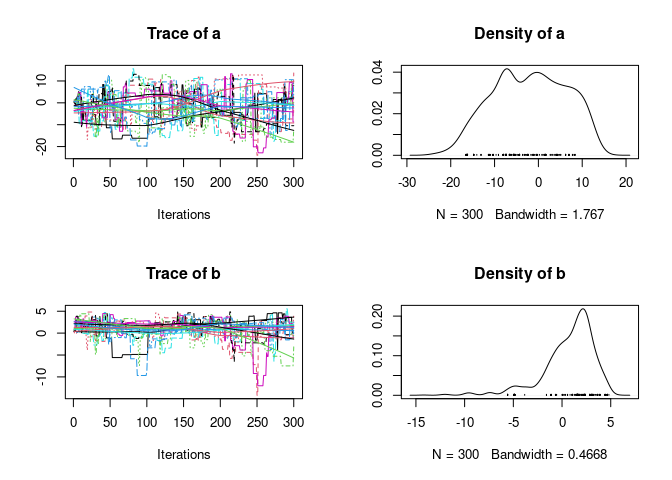
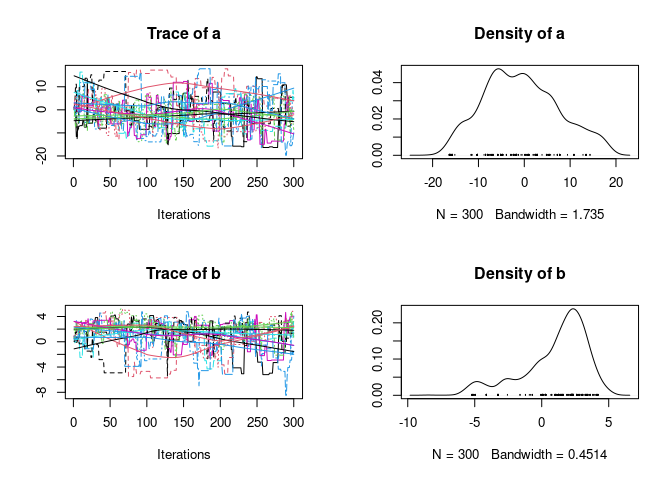
Set seed to avoid regenerating the figures each time

diff --git a/README.md b/README.md
@@ -41,12 +41,12 @@ res1 <- MCMCEnsemble(p.log, lower.inits=c(a=0, b=0), upper.inits=c(a=1, b=1),
 #> Using stretch move with 10 walkers.
 str(res1)
 #> List of 2
-#>  $ samples: num [1:10, 1:300, 1:2] 0.776 0.163 0.15 0.298 0.354 ...
+#>  $ samples: num [1:10, 1:300, 1:2] 0.14 0.665 0.995 0.653 0.476 ...
 #>   ..- attr(*, "dimnames")=List of 3
 #>   .. ..$ : chr [1:10] "walker_1" "walker_2" "walker_3" "walker_4" ...
 #>   .. ..$ : chr [1:300] "generation_1" "generation_2" "generation_3" "generation_4" ...
 #>   .. ..$ : chr [1:2] "a" "b"
-#>  $ log.p  : num [1:10, 1:300] -3.94 -3.43 -3.6 -4.46 -2.28 ...
+#>  $ log.p  : num [1:10, 1:300] -3.59 -3.48 -2.41 -3.44 -2.44 ...
 #>   ..- attr(*, "dimnames")=List of 2
 #>   .. ..$ : chr [1:10] "walker_1" "walker_2" "walker_3" "walker_4" ...
 #>   .. ..$ : chr [1:300] "generation_1" "generation_2" "generation_3" "generation_4" ...
@@ -73,15 +73,15 @@ summary(res2$samples)
 #> 1. Empirical mean and standard deviation for each variable,
 #>    plus standard error of the mean:
 #> 
-#>     Mean    SD Naive SE Time-series SE
-#> a 0.7812 7.363  0.13443         0.8971
-#> b 1.2648 2.167  0.03957         0.2474
+#>       Mean    SD Naive SE Time-series SE
+#> a -0.99617 9.404  0.17169         1.1082
+#> b  0.08097 3.802  0.06941         0.5324
 #> 
 #> 2. Quantiles for each variable:
 #> 
-#>      2.5%     25%   50%   75%  97.5%
-#> a -14.146 -4.1775 1.130 5.914 14.729
-#> b  -4.005  0.2357 1.744 2.783  4.293
+#>     2.5%     25%     50%   75% 97.5%
+#> a -20.18 -6.6065 0.01745 5.148 17.65
+#> b -10.22 -0.9395 1.25350 2.573  4.29
 plot(res2$samples)
 ```
 
@@ -106,14 +106,14 @@ summary(res3$samples)
 #>    plus standard error of the mean:
 #> 
 #>      Mean    SD Naive SE Time-series SE
-#> a -1.9650 8.266  0.15092         0.7680
-#> b  0.7612 2.592  0.04733         0.2674
+#> a -0.6493 8.119  0.14824          0.631
+#> b  1.0218 2.408  0.04397          0.218
 #> 
 #> 2. Quantiles for each variable:
 #> 
-#>      2.5%     25%    50%   75%  97.5%
-#> a -16.982 -8.0114 -1.857 4.681 11.685
-#> b  -5.593 -0.4268  1.350 2.500  4.405
+#>      2.5%      25%    50%   75%  97.5%
+#> a -14.947 -6.59386 -1.001 5.112 16.622
+#> b  -5.064 -0.08247  1.645 2.747  4.148
 plot(res3$samples)
 ```
 
